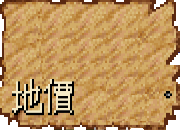
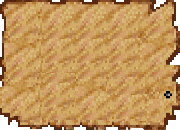
added Chances  - some cases need ambulance or police car or auction are postponed due to missing components

Changed region(s): [[0.0556, 0.5538, 0.4167, 0.8923]]

diff --git a/js/rich2.js b/js/rich2.js
@@ -4,6 +4,7 @@ var CanvasHeight = 480;
 var GridLength = 48; // The width of each block in game
 var MapViewLength = 432; // The partial map that player can see, the length is 9x48=432 px
 var MapViewHalfLength = 192;
+var MapImgLength = 216;
 var MenuOptionHeight = 48;
 var MenuOptionWidth = 86;
 var SideBarWidth = 208; // Left side bar
@@ -17,6 +18,11 @@ var DiceWidth = 54;
 var DiceHeight = 72;
 var mapOffsetX = 0;
 var mapOffsetY = 0;
+var ChanceImgWidth = 176;
+var ChanceImgHeight = 146;
+var ChanceDisplayWidth = 352;
+var ChanceDisplayHeight = 291;
+var NumOfChances = 19;
 var CoverImg = loadImage("topcoverlay.png");
 var CursorImg = loadImage("mouse.png");
 var DiceImg = loadImage("dice.png");
@@ -27,6 +33,7 @@ var HeadImg = loadImage("head.png");
 var CarImg = loadImage("car.png");
 var BldgImg = loadImage("bldg.png");
 var AbacusImg = loadImage("abacus.png");
+var ChanceImg = loadImage("chance.png");
 var BldgUpgradeMsg = [
   "加蓋平房","改建店鋪","擴建商場","蓋商業大樓","建摩天大廈"
 ];
@@ -98,10 +105,7 @@ $(function() {
   var maxNumOfPlayers;
   var cityList;
   var passedBank = false;
-/**
- *           
 
- */
   function drawMap(cx, cy) {
     var llx = cx - MapViewHalfLength;
     var rrx = currentLevel.MapLength - (cx + GridLength) - MapViewHalfLength;
@@ -230,11 +234,6 @@ $(function() {
   } 
   
   function turnToNextPlayer() {
-    // First check if current player is bankrupt
-    if (!currentPlayer.alive) {
-      // TODO: bankrupt ani
-      console.log(currentPlayer.name + " is bankrupt!");
-    }
     do {
       currentPlayerIndex = (currentPlayerIndex + 1) % maxNumOfPlayers;
       currentPlayer = Players[playerList[currentPlayerIndex]];
@@ -352,6 +351,17 @@ $(function() {
     }
   ]    
   ];
+
+  function checkPlayerCashFlow(player) {
+    if (player.cash < 0) {
+      player.deposit += player.cash;
+      player.cash = 0;
+      if (player.deposit <= 0) {
+        player.alive = false;
+        console.log(player.name + " is bankrupt");
+      }
+    }
+  }
 
   var Levels = {
     taiwan: {
@@ -617,24 +627,34 @@ $(function() {
     console.log("stock key pressed called");
   }
   
+  var chanceDelay = 0;
+  var chanceImgX, chanceImgY;
   function ani_chance() {
-    console.log("chance callback called");
     drawMap(currentPlayer.position.x, currentPlayer.position.y);
-    context.drawImage(LandLabelImg, 0, 0, 180, 75, 292, 86, 180, 75);
+    context.drawImage(LandLabelImg, 0, 0, 180, 130, 292, 86, 180, 75);
 
     context.font = "43px sans-serif";
     context.fillStyle = "black";
-    context.fillText("運   氣", 322, 142);
+    context.fillText("運  氣", 322, 142);
 
     context.fillStyle = "yellow";
-    context.fillText("運   氣", 320, 140);
+    context.fillText("運  氣", 320, 140);
 
     drawPlayer();
     drawSidebar();
-    if (parkDelay < 50) {
-      ++parkDelay;
+    if (chanceDelay < 150) {
+      ++chanceDelay;
+      if (chanceDelay == 50) {
+        var pick = Math.floor(Math.random() * NumOfChances);
+        chanceImgX = Math.floor(pick % 4) * ChanceImgWidth;
+        chanceImgY = Math.floor(pick / 4) * ChanceImgHeight;
+        Chances[pick]();
+      } else if (chanceDelay > 50) {
+        context.drawImage(ChanceImg, chanceImgX, chanceImgY, ChanceImgWidth, ChanceImgHeight, 
+          281, 186, ChanceDisplayWidth, ChanceDisplayHeight);
+      }
     } else {
-      parkDelay = 0;
+      chanceDelay = 0;
       turnToNextPlayer();
       Game.status = 0;
     }
@@ -841,10 +861,10 @@ $(function() {
 
     context.font = "43px sans-serif";
     context.fillStyle = "black";
-    context.fillText("路過銀行", 322, 142);
+    context.fillText("銀 行", 322, 142);
 
     context.fillStyle = "yellow";
-    context.fillText("路過銀行", 320, 140);
+    context.fillText("銀 行", 320, 140);
 
     if (parkDelay < 50) {
       ++parkDelay;
@@ -988,7 +1008,7 @@ $(function() {
     context.fillStyle = "black";
     context.font = "35px sans-serif";
     context.fillText(n, 354, 132);
-
+    context.fillText("地價", 334, 194);
     context.font = "30px sans-serif";
     context.fillText(p, 408, 188);
 
@@ -996,6 +1016,7 @@ $(function() {
     context.font = "35px sans-serif";
     context.fillStyle = "white";
     context.fillText(n, 352, 130);
+    context.fillText("地價", 332, 192);
 
     context.font = "30px sans-serif";
     context.fillStyle = "red";
@@ -1037,13 +1058,7 @@ $(function() {
   function payRent(rent, owner) {
     owner.deposit += rent;
     currentPlayer.cash -= rent;
-    if (currentPlayer.cash < 0) { // If cash is not enough, then get money from deposit
-      currentPlayer.deposit += currentPlayer.cash;
-      currentPlayer.cash = 0;
-      if (currentPlayer.deposit <= 0) { // If no money in deposit either, then bankrupt
-        currentPlayer.alive = false;
-      }
-    }
+    checkPlayerCashFlow(currentPlayer);
   }
     
   var passbyKeypressed = false;
@@ -1433,6 +1448,125 @@ $(function() {
         ani_casino, ani_park, ani_commuchest, ani_carnival, ani_hospital, ani_jail, ani_bank, 
         ani_market, ani_road, ani_passby, ani_passbank];
 
+  var Chances = [
+    // 0: 内线交易获利30%
+    function() {
+      currentPlayer.cash = Math.floor(currentPlayer.cash * 1.3);
+    },
+    // 1: 举报走私得奖金二千元
+    function() {
+      currentPlayer.cash += 2000;
+    },
+    // 2: 现金被强盗抢走一半
+    function() {
+      currentPlayer.cash = Math.floor(currentPlayer.cash * 0.5);
+    },
+    // 3: 发票中奖得600元
+    function() {
+      currentPlayer.cash += 600;
+    },
+    // 4: 打工赚得一千元
+    function() {
+      currentPlayer.cash += 1000;
+    },
+    // 5: 路边拣到500元
+    function() {
+      currentPlayer.cash += 500;
+    },
+    // 6: 摆地摊赚得二千元
+    function() {
+      currentPlayer.cash += 2000;
+    },
+    // 7: 放高利贷获利40％
+    function() {
+      currentPlayer.cash = Math.floor(currentPlayer.cash * 1.4);
+    },
+    // 8: 现金被歹徒骗了20%
+    function() {
+      currentPlayer.cash = Math.floor(currentPlayer.cash * 0.8);
+    },
+    // 9: 现金投资获利20％
+    function() {
+      currentPlayer.cash = Math.floor(currentPlayer.cash * 1.2);
+    },
+    // 10: 交通违规罚三千元
+    function() {
+      currentPlayer.cash -= 3000;
+      checkPlayerCashFlow(currentPlayer);
+    },
+    // 11: 制造噪音罚款600元
+    function() {
+      currentPlayer.cash -= 600;
+      checkPlayerCashFlow(currentPlayer);
+    },
+    // 12: 打破玻璃赔一千元
+    function() {
+      currentPlayer.cash -= 1000;
+      checkPlayerCashFlow(currentPlayer);
+    },
+    // 13: 向所有人收一千元红包
+    function() {
+      var money = 0;
+      for (var key in playerList) {
+        var name = playerList[key];
+        if (Players[name].alive) {
+          Players[name].cash -= 1000;
+          money += 1000;
+          checkPlayerCashFlow(Players[name]);
+        }
+      }
+      currentPlayer.cash += money;
+    },
+    // 14: 漏税罚款二千元
+    function() {
+      currentPlayer.cash -= 2000;
+      checkPlayerCashFlow(currentPlayer);
+    },
+    // 15: 赞助爱心捐款500元
+    function() {
+      currentPlayer.cash -= 500;
+      checkPlayerCashFlow(currentPlayer);
+    },
+    // 16: 送每人一千元吃红
+    function() {
+      var money = 0;
+      for (var key in playerList) {
+        var name = playerList[name];
+        if (Players[name].alive) {
+          Players[name].cash += 1000;
+          money += 1000;
+        }
+      }
+      currentPlayer.cash -= money;
+      checkPlayerCashFlow(currentPlayer);
+    },
+    // 17: 遗失500元
+    function() {
+      currentPlayer.cash -= 500;
+      checkPlayerCashFlow(currentPlayer);
+    },
+    // 18: 妨碍风化坐牢七天
+    function() {
+      
+    },
+    // 跌入水沟住院三天
+    function() {
+      
+    },
+    // 
+    function() {
+      
+    },
+    //
+    function() {
+      
+    },
+    //
+    function() {
+      
+    }
+  ];
+
   /**
    * Deity
    * 0: none
@@ -1516,7 +1650,6 @@ $(function() {
       cards: [], // maximum: 9
       blocks: [],
     },
-
     path: [],
     isMoving: false, // use this boolean to block keyboard interupts
     dice1: 0,

diff --git a/index.html b/index.html
@@ -12,8 +12,8 @@
   </style>
 </head>
 <body>
-  <canvas id="canvas" width="640" height="480">
+<canvas id="canvas" width="640" height="480">
     Your browser does not support the HTML5 Canvas feature.
-  </canvas>
+</canvas>
 </body>
 </html>
